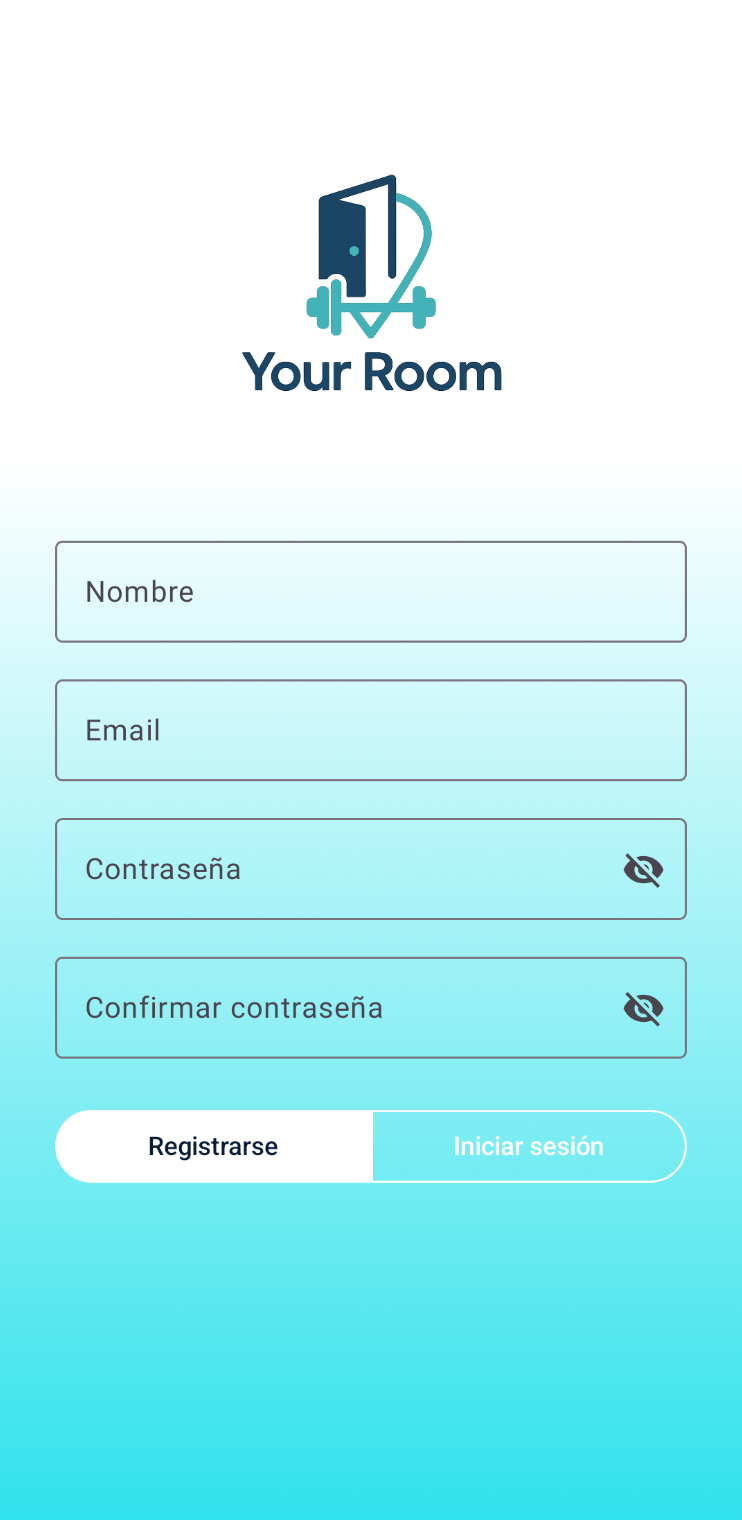
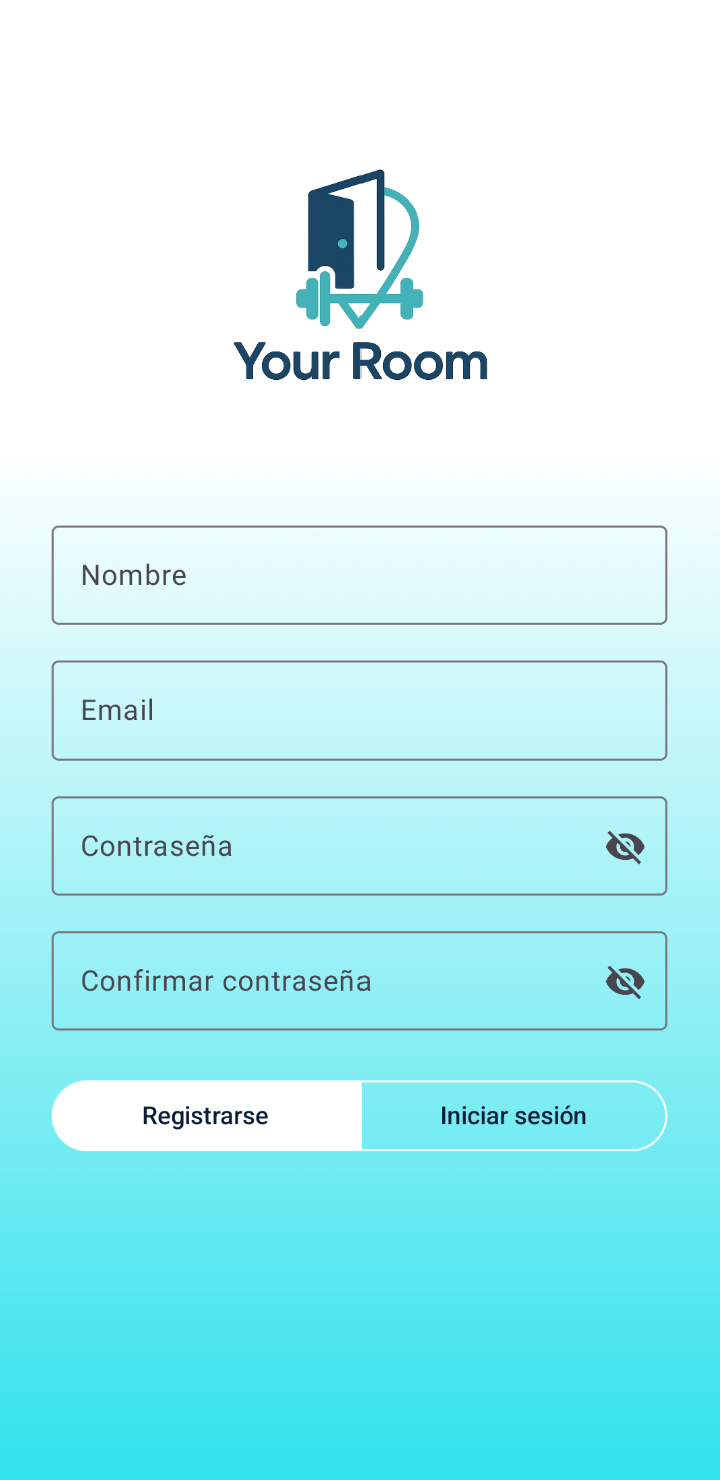
style: se cambia color del botón Iniciar sesión de la RegisterScreen.kt.

diff --git a/app/src/main/java/com/example/yourroom/ui/screens/auth/RegisterScreen.kt b/app/src/main/java/com/example/yourroom/ui/screens/auth/RegisterScreen.kt
@@ -259,7 +259,7 @@ fun RegisterScreenContent(
                     onClick = onBackToLoginClick,
                     modifier = Modifier.weight(1f),
                     colors = ButtonDefaults.outlinedButtonColors(
-                        contentColor = Color.White
+                        contentColor = Color(0xFF0A1D37)
                     ),
                     border = BorderStroke(1.dp, Color.White),
                     shape = RoundedCornerShape(
